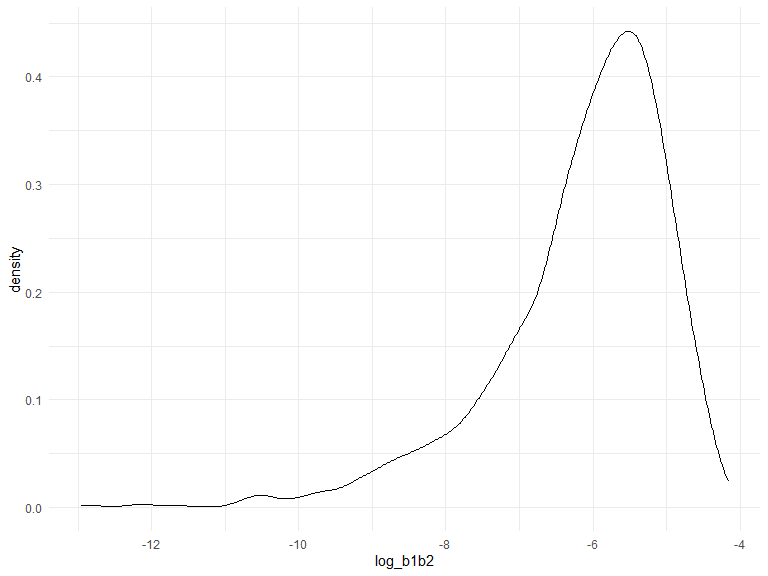
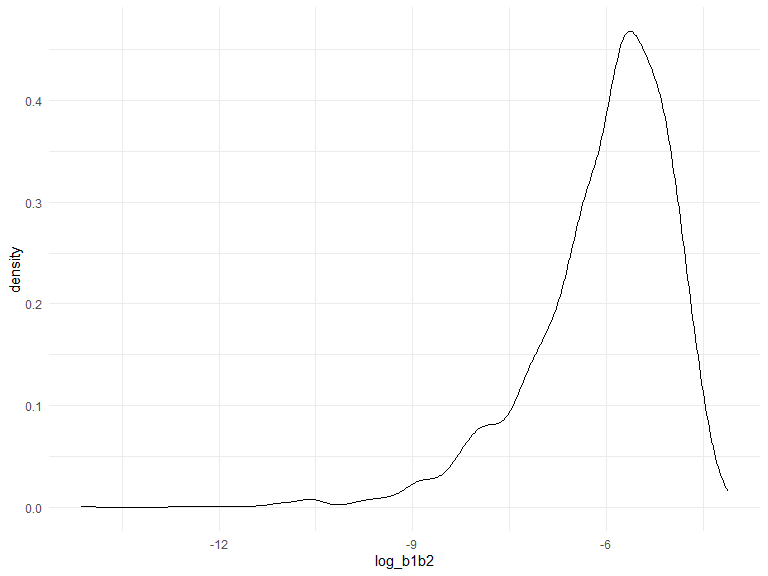
Load and clean birthweight data for question 3

diff --git a/p8105_hw6_sc5126.md b/p8105_hw6_sc5126.md
@@ -5,7 +5,7 @@ Si Chen
 
 ## Question 2
 
-# Load data
+### Load data
 
 ``` r
 weather_df = 
@@ -31,7 +31,7 @@ weather_df =
 
     ## file min/max dates: 1869-01-01 / 2023-11-30
 
-# Bootstrap $\hat{r}^2$
+### Bootstrap $\hat{r}^2$
 
 ``` r
 bootstrap_r2 = 
@@ -54,11 +54,11 @@ bootstrap_r2 %>%
 <img src="p8105_hw6_sc5126_files/figure-gfm/plot_r2-1.png" width="90%" />
 
 Here the $\hat{r}^2$ value we derived is high. It has a mean of
-0.9173115. the bootstrap values of $\hat{r}^2$ ranges from 0.8589792 to
-0.953366. It can be concluded that `tmin` and `prcp` explained `tmax`
+0.9170951. the bootstrap values of $\hat{r}^2$ ranges from 0.8699127 to
+0.9541121. It can be concluded that `tmin` and `prcp` explained `tmax`
 decently.
 
-# The 95% intervel for $\hat{r}^2$
+### The 95% intervel for $\hat{r}^2$
 
 ``` r
 bootstrap_r2 %>%  
@@ -72,7 +72,7 @@ bootstrap_r2 %>%
     ##      <dbl>    <dbl>
     ## 1    0.889    0.941
 
-## Bootstrap $\log(\beta_1 * \beta2)$
+### Bootstrap $\log(\beta_1 * \beta2)$
 
 ``` r
 bootstrap_logb1b2 = 
@@ -108,10 +108,7 @@ bootstrap_logb1b2 =
 
 Here the distribution of $\log(\beta_1 * \beta2)$ is skewed to the left.
 
-The $\log(\beta_1 * \beta2)$ value we derived has a mean of NaN. the
-bootstrap values of $\log(\beta_1 * \beta2)$ ranges from NaN to NaN.
-
-# The 95% intervel for $\log(\beta_1 * \beta2)$
+### The 95% intervel for $\log(\beta_1 * \beta2)$
 
 ``` r
 bootstrap_logb1b2 %>%  
@@ -123,6 +120,75 @@ bootstrap_logb1b2 %>%
     ## # A tibble: 1 × 2
     ##   ci_lower ci_upper
     ##      <dbl>    <dbl>
-    ## 1    -9.17    -4.57
+    ## 1    -8.82    -4.59
 
 ## Question 3
+
+``` r
+skimr::skim(bw_df)
+```
+
+|                                                  |       |
+|:-------------------------------------------------|:------|
+| Name                                             | bw_df |
+| Number of rows                                   | 4342  |
+| Number of columns                                | 20    |
+| \_\_\_\_\_\_\_\_\_\_\_\_\_\_\_\_\_\_\_\_\_\_\_   |       |
+| Column type frequency:                           |       |
+| factor                                           | 4     |
+| numeric                                          | 16    |
+| \_\_\_\_\_\_\_\_\_\_\_\_\_\_\_\_\_\_\_\_\_\_\_\_ |       |
+| Group variables                                  | None  |
+
+Data summary
+
+**Variable type: factor**
+
+| skim_variable | n_missing | complete_rate | ordered | n_unique | top_counts                              |
+|:--------------|----------:|--------------:|:--------|---------:|:----------------------------------------|
+| babysex       |         0 |             1 | FALSE   |        2 | mal: 2230, fem: 2112                    |
+| frace         |         0 |             1 | FALSE   |        5 | whi: 2123, bla: 1911, pue: 248, asi: 46 |
+| malform       |         0 |             1 | FALSE   |        2 | abs: 4327, pre: 15                      |
+| mrace         |         0 |             1 | FALSE   |        4 | whi: 2147, bla: 1909, pue: 243, asi: 43 |
+
+**Variable type: numeric**
+
+| skim_variable | n_missing | complete_rate |    mean |     sd |     p0 |     p25 |     p50 |     p75 |   p100 | hist  |
+|:--------------|----------:|--------------:|--------:|-------:|-------:|--------:|--------:|--------:|-------:|:------|
+| bhead         |         0 |             1 |   33.65 |   1.62 |  21.00 |   33.00 |   34.00 |   35.00 |   41.0 | ▁▁▆▇▁ |
+| blength       |         0 |             1 |   49.75 |   2.72 |  20.00 |   48.00 |   50.00 |   51.00 |   63.0 | ▁▁▁▇▁ |
+| bwt           |         0 |             1 | 3114.40 | 512.15 | 595.00 | 2807.00 | 3132.50 | 3459.00 | 4791.0 | ▁▁▇▇▁ |
+| delwt         |         0 |             1 |  145.57 |  22.21 |  86.00 |  131.00 |  143.00 |  157.00 |  334.0 | ▅▇▁▁▁ |
+| fincome       |         0 |             1 |   44.11 |  25.98 |   0.00 |   25.00 |   35.00 |   65.00 |   96.0 | ▃▇▅▂▃ |
+| gaweeks       |         0 |             1 |   39.43 |   3.15 |  17.70 |   38.30 |   39.90 |   41.10 |   51.3 | ▁▁▂▇▁ |
+| menarche      |         0 |             1 |   12.51 |   1.48 |   0.00 |   12.00 |   12.00 |   13.00 |   19.0 | ▁▁▂▇▁ |
+| mheight       |         0 |             1 |   63.49 |   2.66 |  48.00 |   62.00 |   63.00 |   65.00 |   77.0 | ▁▁▇▂▁ |
+| momage        |         0 |             1 |   20.30 |   3.88 |  12.00 |   18.00 |   20.00 |   22.00 |   44.0 | ▅▇▂▁▁ |
+| parity        |         0 |             1 |    0.00 |   0.10 |   0.00 |    0.00 |    0.00 |    0.00 |    6.0 | ▇▁▁▁▁ |
+| pnumlbw       |         0 |             1 |    0.00 |   0.00 |   0.00 |    0.00 |    0.00 |    0.00 |    0.0 | ▁▁▇▁▁ |
+| pnumsga       |         0 |             1 |    0.00 |   0.00 |   0.00 |    0.00 |    0.00 |    0.00 |    0.0 | ▁▁▇▁▁ |
+| ppbmi         |         0 |             1 |   21.57 |   3.18 |  13.07 |   19.53 |   21.03 |   22.91 |   46.1 | ▃▇▁▁▁ |
+| ppwt          |         0 |             1 |  123.49 |  20.16 |  70.00 |  110.00 |  120.00 |  134.00 |  287.0 | ▅▇▁▁▁ |
+| smoken        |         0 |             1 |    4.15 |   7.41 |   0.00 |    0.00 |    0.00 |    5.00 |   60.0 | ▇▁▁▁▁ |
+| wtgain        |         0 |             1 |   22.08 |  10.94 | -46.00 |   15.00 |   22.00 |   28.00 |   89.0 | ▁▁▇▁▁ |
+
+Propose a regression model for birthweight. This model may be based on a
+hypothesized structure for the factors that underly birthweight, on a
+data-driven model-building process, or a combination of the two.
+Describe your modeling process and show a plot of model residuals
+against fitted values – use add_predictions and add_residuals in making
+this plot.
+
+Compare your model to two others:
+
+One using length at birth and gestational age as predictors (main
+effects only) - One using head circumference, length, sex, and all
+interactions (including the three-way interaction) between these - Make
+this comparison in terms of the cross-validated prediction error; use
+crossv_mc and functions in purrr as appropriate.
+
+Note that although we expect your model to be reasonable, model building
+itself is not a main idea of the course and we don’t necessarily expect
+your model to be “optimal”.
+
+Optional post-assignment survey
